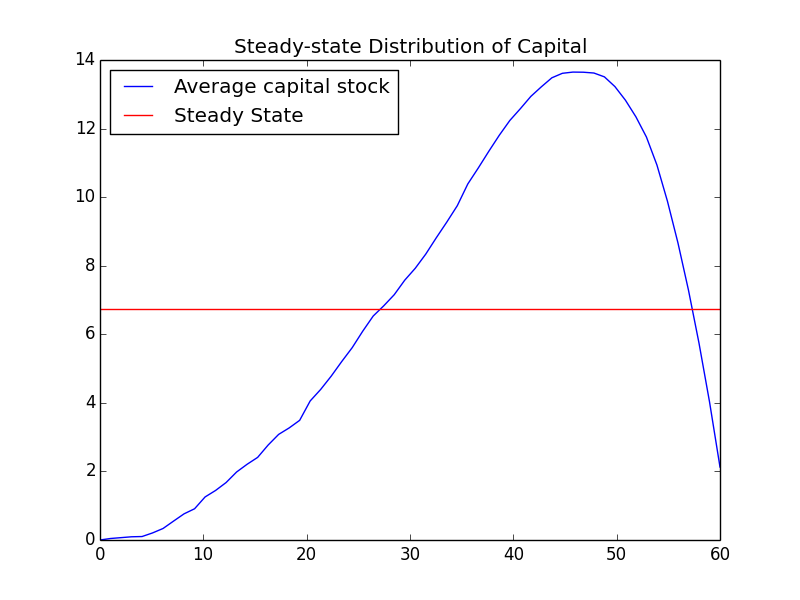
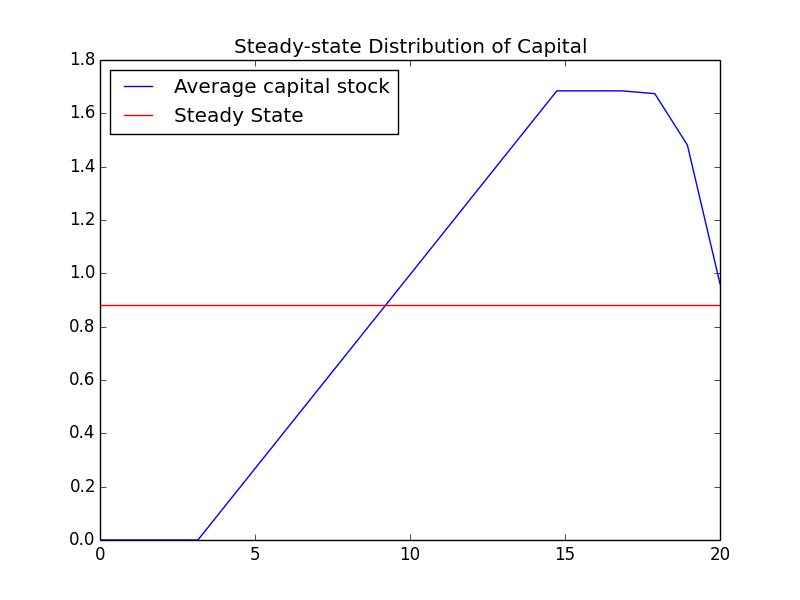
fixed SS esavg

diff --git a/Python/olg_basic/SS.py b/Python/olg_basic/SS.py
@@ -47,7 +47,7 @@ starttime = time.time()
 
 S = 60
 J = 7
-bsize = 100
+bsize = 350
 beta = .96 ** (60 / S)
 sigma = 3
 alpha = .35
@@ -274,7 +274,7 @@ Generate steady state multiplier values
 
 ssbsavg = (S-1) * (gamma_ss * np.tile(b.reshape(1, 1, bsize), (
     S-1, J, 1))).sum(axis=2).sum(axis=1)
-esavg = (e.reshape(bsize,J,1) * f).sum(axis=1)
+esavg = (e.reshape(S, J, 1) * f).sum(axis=1).sum(axis=1)
 nsavg = n.T
 cssvec = (1 + rss) * np.array([0]+list(ssbsavg[:S-2])) + wss * esavg[
     :S-1] * nsavg[:S-1] - ssbsavg
